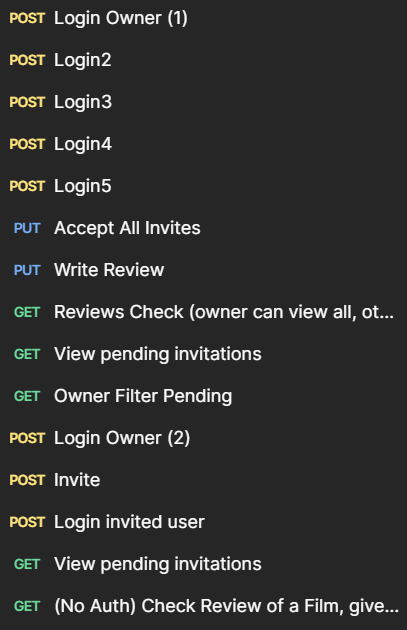
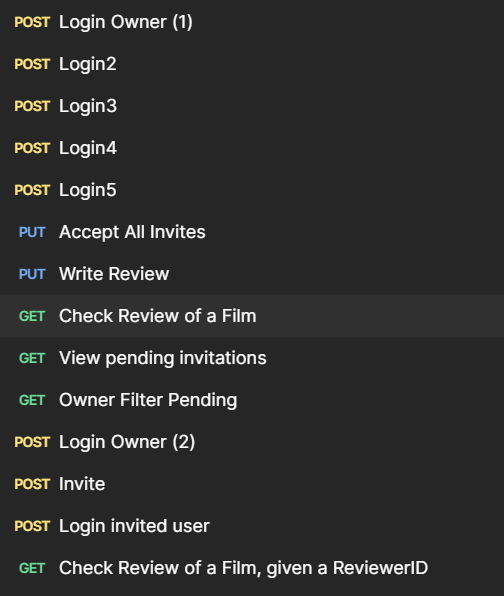
readme updated

Changed region(s): [[0.0, 0.151, 0.9435, 0.8456], [0.0295, 0.8758, 0.973, 0.9966], [0.0295, 0.0, 0.4717, 0.1208]]

diff --git a/README.md b/README.md
@@ -187,7 +187,7 @@ The database provided with this project (database.db) is pre-populated to demons
 
 - Request: POST Login1 
 
-- Request: GET Reviews Check (No filters) 
+- Request: GET Check Review (No filters) 
 
     - Result: The owner sees the full history, including User4: (Cancelled/Expired) (Visible only to owner).
 
@@ -196,9 +196,9 @@ The database provided with this project (database.db) is pre-populated to demons
     - Result: Empty. User 2 is now completed, and User 4 is expired.
 
 ### Step 7: Privacy Verification
-- Actor: Any Invitee (User 2/3/4/5)
+- Actor: Any Invitee (User 2/3/4/5) or No-Auth Users
 
-- Request: GET  (No Auth) Check Review of a Film 
+- Request: GET Check Review of a Film 
 
 - Action: Try to view the general reviews list for Film 1.
 
